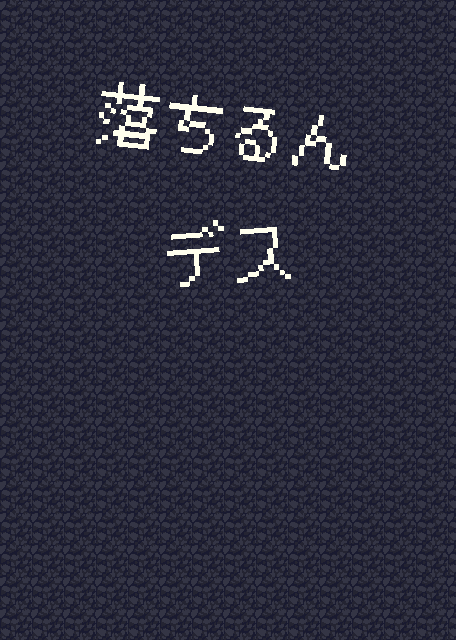
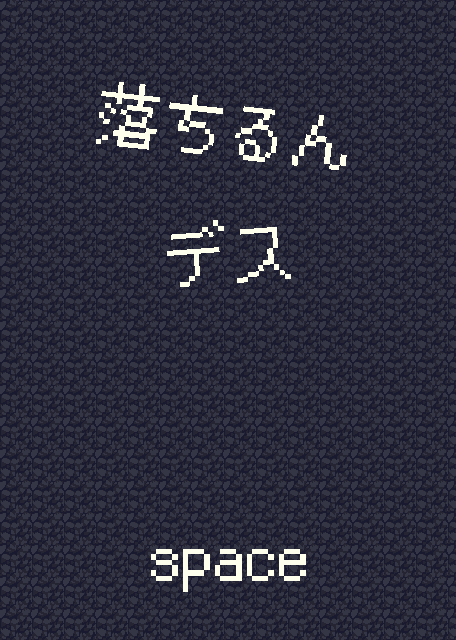
諸々追加

Changed region(s): [[0.3377, 0.8438, 0.6754, 0.9375]]

diff --git a/main.cpp b/main.cpp
@@ -72,7 +72,10 @@ int WINAPI WinMain(_In_ HINSTANCE hInstance, _In_opt_ HINSTANCE hPrevInstance, _
 	int scene_ = Scene::Title_;
 
 
-	int texture_background = LoadGraph("Resource/title.png");
+	int texture_title = LoadGraph("Resource/title.png");
+	int texture_background = LoadGraph("Resource/darkcave.png");
+	int texture_clear = LoadGraph("Resource/clear.png");
+	int texture_over = LoadGraph("Resource/over.png");
 
 	// ゲームループで使う変数の宣言
 
@@ -99,7 +102,7 @@ int WINAPI WinMain(_In_ HINSTANCE hInstance, _In_opt_ HINSTANCE hPrevInstance, _
 		{
 		case Title_:
 			//title->Update();
-			if (keys[KEY_INPUT_RETURN] == true && oldkeys[KEY_INPUT_RETURN] == false) {
+			if (keys[KEY_INPUT_SPACE] == true && oldkeys[KEY_INPUT_SPACE] == false) {
 				scene_ = Game_;
 			}
 
@@ -156,10 +159,11 @@ int WINAPI WinMain(_In_ HINSTANCE hInstance, _In_opt_ HINSTANCE hPrevInstance, _
 		// 描画処理
 		if (scene_ == Title_)
 		{
-			DrawGraph(0, 0, texture_background, TRUE);
+			DrawGraph(0, 0, texture_title , TRUE);
 			//title->Draw();
 		}
 		else if (scene_ == Game_) {
+			DrawGraph(0, 0, texture_background, TRUE);
 			mapChip->Draw(player->scrollY);
 			player->Draw();
 
@@ -180,9 +184,11 @@ int WINAPI WinMain(_In_ HINSTANCE hInstance, _In_opt_ HINSTANCE hPrevInstance, _
 
 		}
 		else if (scene_ == Clear_) {
+			DrawGraph(0, 0, texture_clear, TRUE);
 			//DrawFormatString(0, 0, GetColor(255, 255, 255), "ゲームクリア");
 		}
 		else if (scene_ == Over_) {
+			DrawGraph(0, 0, texture_over, TRUE);
 			//DrawFormatString(0, 0, GetColor(255, 255, 255), "ゲームオーバー");
 		}
 
